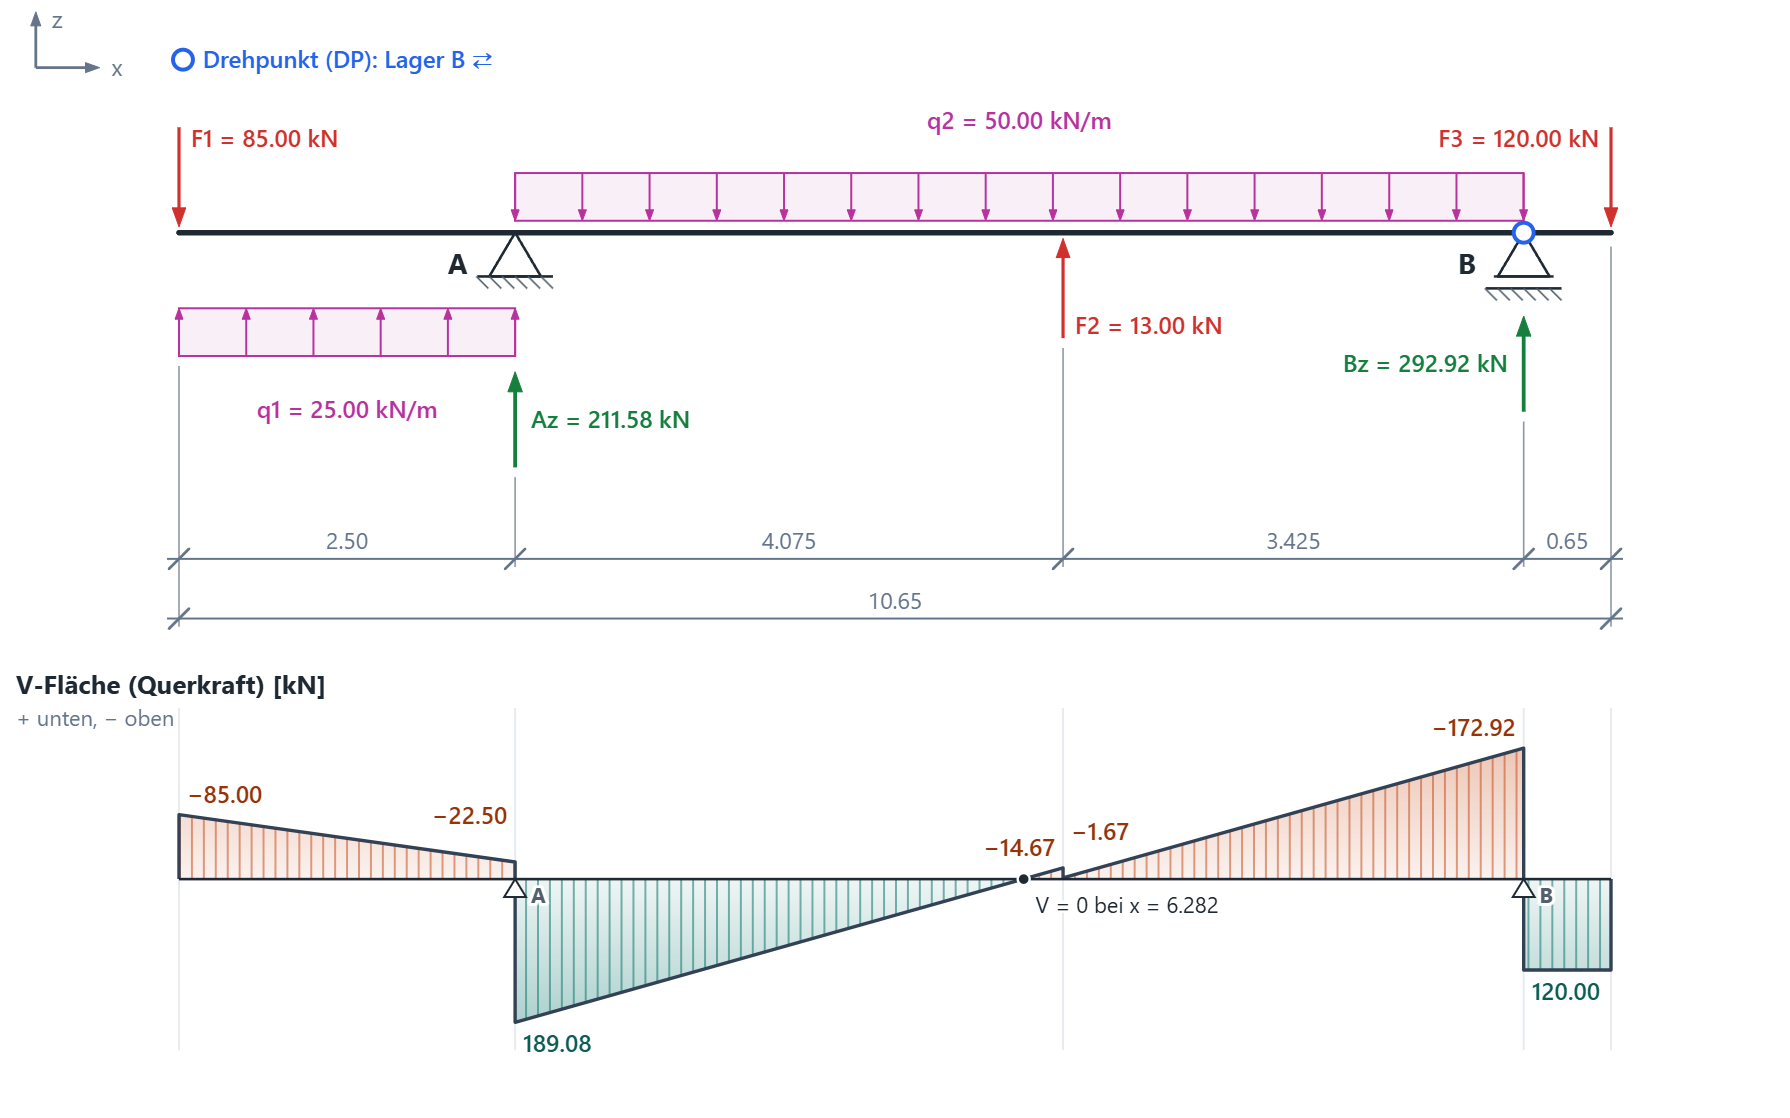
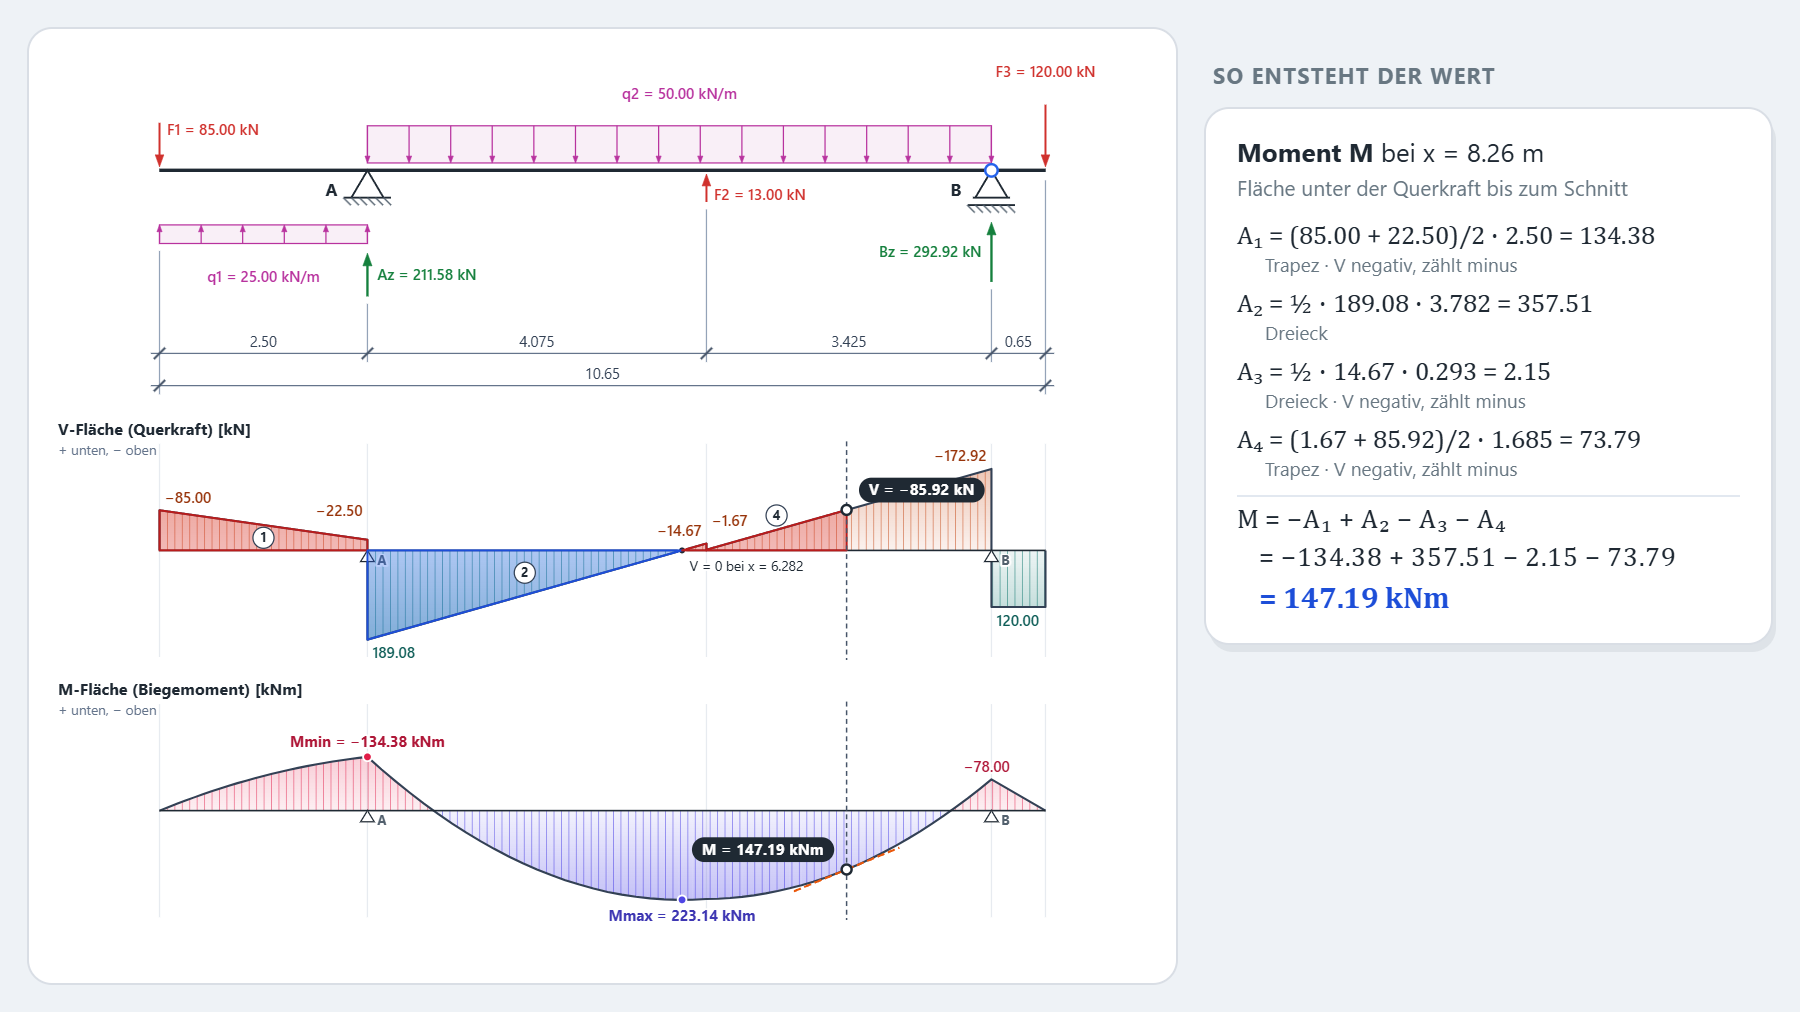
Startseite: Web-Apps-Zahl, Link-Vorschau, neues StatiCulator-Bild, Texte
- Zahlenkachel Web-Apps statt leerer Excel-Tabellen; Beschreibung und Link-Vorschau (Open Graph)
- StatiCulator: neues Vorschaubild, Version 1.1, Texte und Details nachgeführt
- Rechtschreibung (ss), verständlichere Texte, keine falsche Anzeige „0 Downloads“

diff --git a/index.html b/index.html
@@ -4,6 +4,16 @@
     <meta charset="UTF-8">
     <meta name="viewport" content="width=device-width, initial-scale=1.0">
     <title>Tools & Downloads</title>
+    <meta name="description" content="Eigenentwickelte Werkzeuge für Baustatik und Bau: BeamSmith, TrigoBro und StatiCulator – Applikationen zum Herunterladen und Web-Apps direkt im Browser.">
+    <!-- Link-Vorschau (WhatsApp, Teams, Mail, soziale Netzwerke) -->
+    <meta property="og:type" content="website">
+    <meta property="og:site_name" content="Tools & Downloads">
+    <meta property="og:title" content="Apps, Rechner und Tabellen">
+    <meta property="og:description" content="Eigenentwickelte Werkzeuge für Baustatik und Bau: BeamSmith, TrigoBro und StatiCulator.">
+    <meta property="og:url" content="https://oroxzy.github.io/">
+    <meta property="og:image" content="https://oroxzy.github.io/Pictures/Beamsmith.PNG">
+    <meta property="og:locale" content="de_CH">
+    <meta name="twitter:card" content="summary_large_image">
     <link rel="icon" href="favicon.svg" type="image/svg+xml">
     <style>
         :root {
@@ -942,8 +952,8 @@
                             <span>Applikationen</span>
                         </div>
                         <div class="stat">
-                            <strong id="sheet-count">0</strong>
-                            <span>Excel-Tabellen</span>
+                            <strong id="web-count">0</strong>
+                            <span>Web-Apps</span>
                         </div>
                     </div>
                 </aside>
@@ -955,13 +965,13 @@
             </section>
 
             <div id="download-list"></div>
-            <div class="empty-state is-hidden" id="empty-state">Keine passenden Downloads gefunden.</div>
+            <div class="empty-state is-hidden" id="empty-state">Keine passenden Einträge gefunden.</div>
         </main>
         <p class="site-note">Anonyme Besucherstatistik mit Cloudflare Web Analytics, ohne Cookies.</p>
     </div>
 
     <div id="popup" role="dialog" aria-modal="true" aria-label="Bildvorschau">
-        <button class="popup-close" id="popup-close" type="button" aria-label="Bildvorschau schließen">×</button>
+        <button class="popup-close" id="popup-close" type="button" aria-label="Bildvorschau schliessen">×</button>
         <img id="popup-img" src="" alt="">
     </div>
 
@@ -972,15 +982,15 @@
                     <h3 id="details-title">Details</h3>
                     <p id="details-tagline"></p>
                 </div>
-                <button class="details-close" id="details-close" type="button" aria-label="Details schließen">×</button>
+                <button class="details-close" id="details-close" type="button" aria-label="Details schliessen">×</button>
             </div>
             <div class="details-body" id="details-body"></div>
         </div>
     </div>
 
     <script>
-        const csvFilePath = 'downloads.csv?v=2026-11-25-staticulator-web-2';
-        const detailsFilePath = 'details.json?v=2026-11-25-staticulator-web-2';
+        const csvFilePath = 'downloads.csv?v=2026-11-26-staticulator-web-3';
+        const detailsFilePath = 'details.json?v=2026-11-26-staticulator-web-3';
         const countApiEndpoint = 'https://countapi.maayanlab.cloud/rpc';
         const countApiPrefix = 'oroxzy.github.io-global-downloads';
         const downloadList = document.getElementById('download-list');
@@ -998,7 +1008,7 @@
         const detailsBody = document.getElementById('details-body');
         const toolCount = document.getElementById('tool-count');
         const appCount = document.getElementById('app-count');
-        const sheetCount = document.getElementById('sheet-count');
+        const webCount = document.getElementById('web-count');
         const featuredImage = document.getElementById('featured-image');
         const featuredTitle = document.getElementById('featured-title');
         const featuredMeta = document.getElementById('featured-meta');
@@ -1059,7 +1069,7 @@
 
             toolCount.textContent = items.length;
             appCount.textContent = items.filter(item => item.kategorie === 'Applikationen').length;
-            sheetCount.textContent = items.filter(item => item.kategorie === 'Excel-Tabellen').length;
+            webCount.textContent = items.filter(item => item.kategorie === 'Web-Apps').length;
 
             if (!featured) return;
 
@@ -1143,7 +1153,7 @@
             const link = document.createElement('a');
             link.className = 'download-link';
             link.href = href;
-            link.title = `${label} herunterladen`;
+            link.title = `Für ${label} herunterladen`;
 
             const icon = document.createElement('span');
             icon.className = 'action-icon';
@@ -1298,7 +1308,7 @@
                         const imageButton = document.createElement('button');
                         imageButton.type = 'button';
                         imageButton.className = 'image-button';
-                        imageButton.setAttribute('aria-label', item.webpfad ? `${item.titel} im Browser öffnen` : `${item.titel} vergrößern`);
+                        imageButton.setAttribute('aria-label', item.webpfad ? `${item.titel} im Browser öffnen` : `${item.titel} vergrössern`);
                         if (item.webpfad) imageButton.title = 'Im Browser öffnen';
 
                         const img = document.createElement('img');
@@ -1557,7 +1567,7 @@
             } catch (err) {
                 console.error('Fehler beim Abrufen des Zählers:', err);
                 link.dataset.downloadCount = 0;
-                setDownloadCount(count, 0);
+                count.textContent = ''; // ohne Zahl lieber nichts als „0 Downloads“
             }
         }
 
